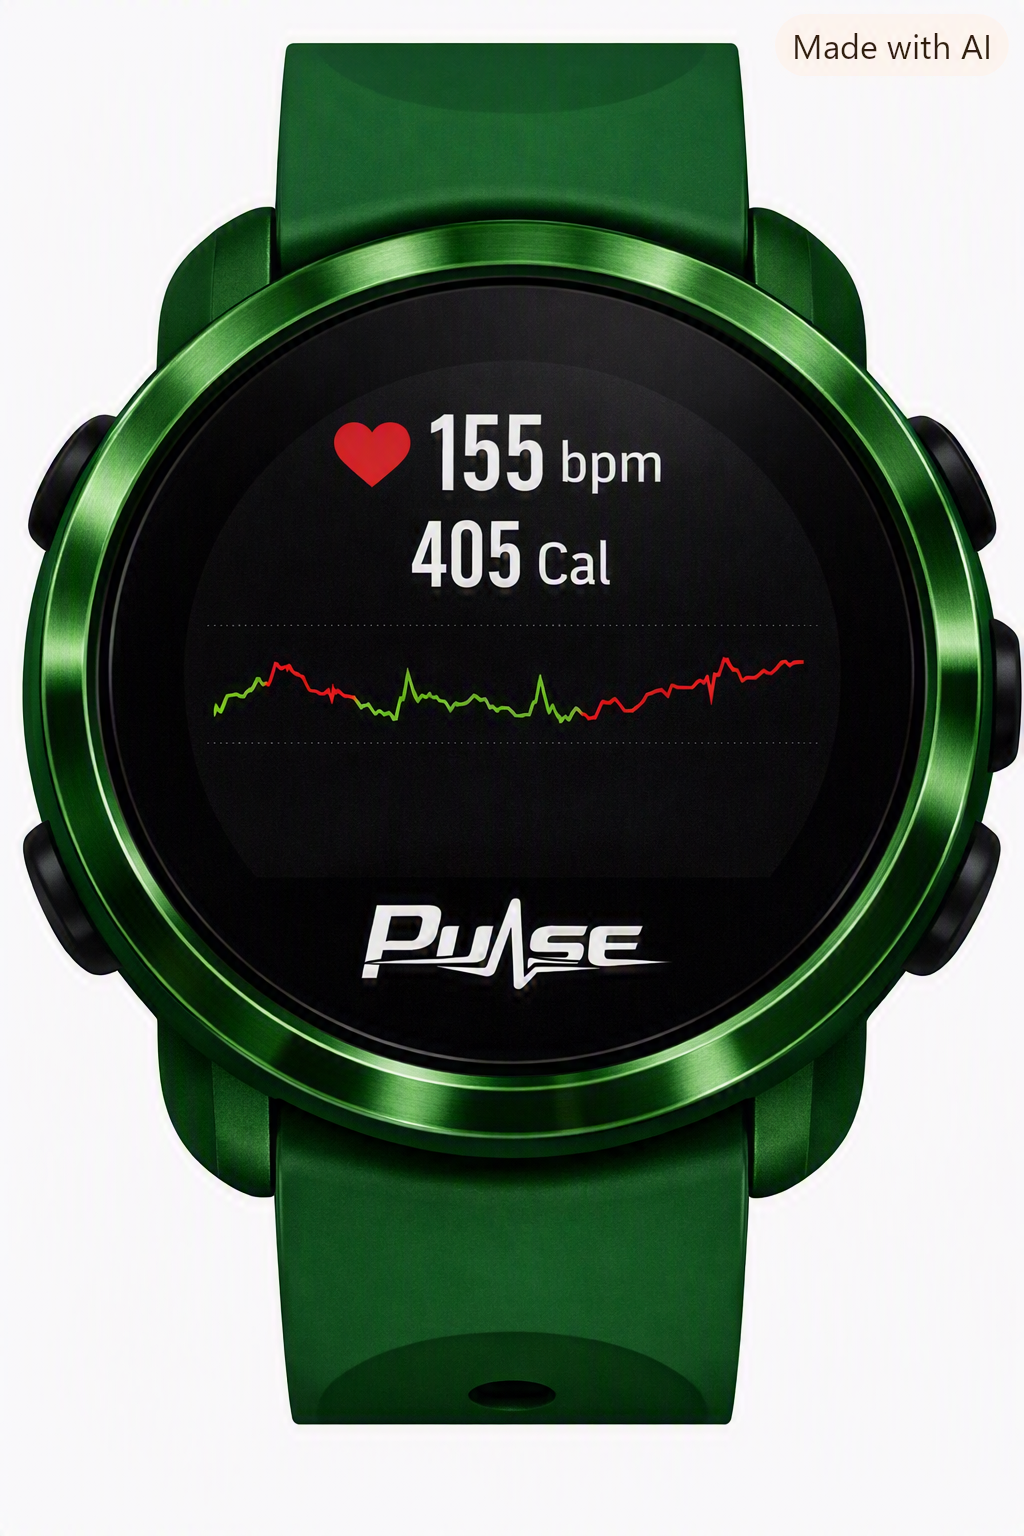
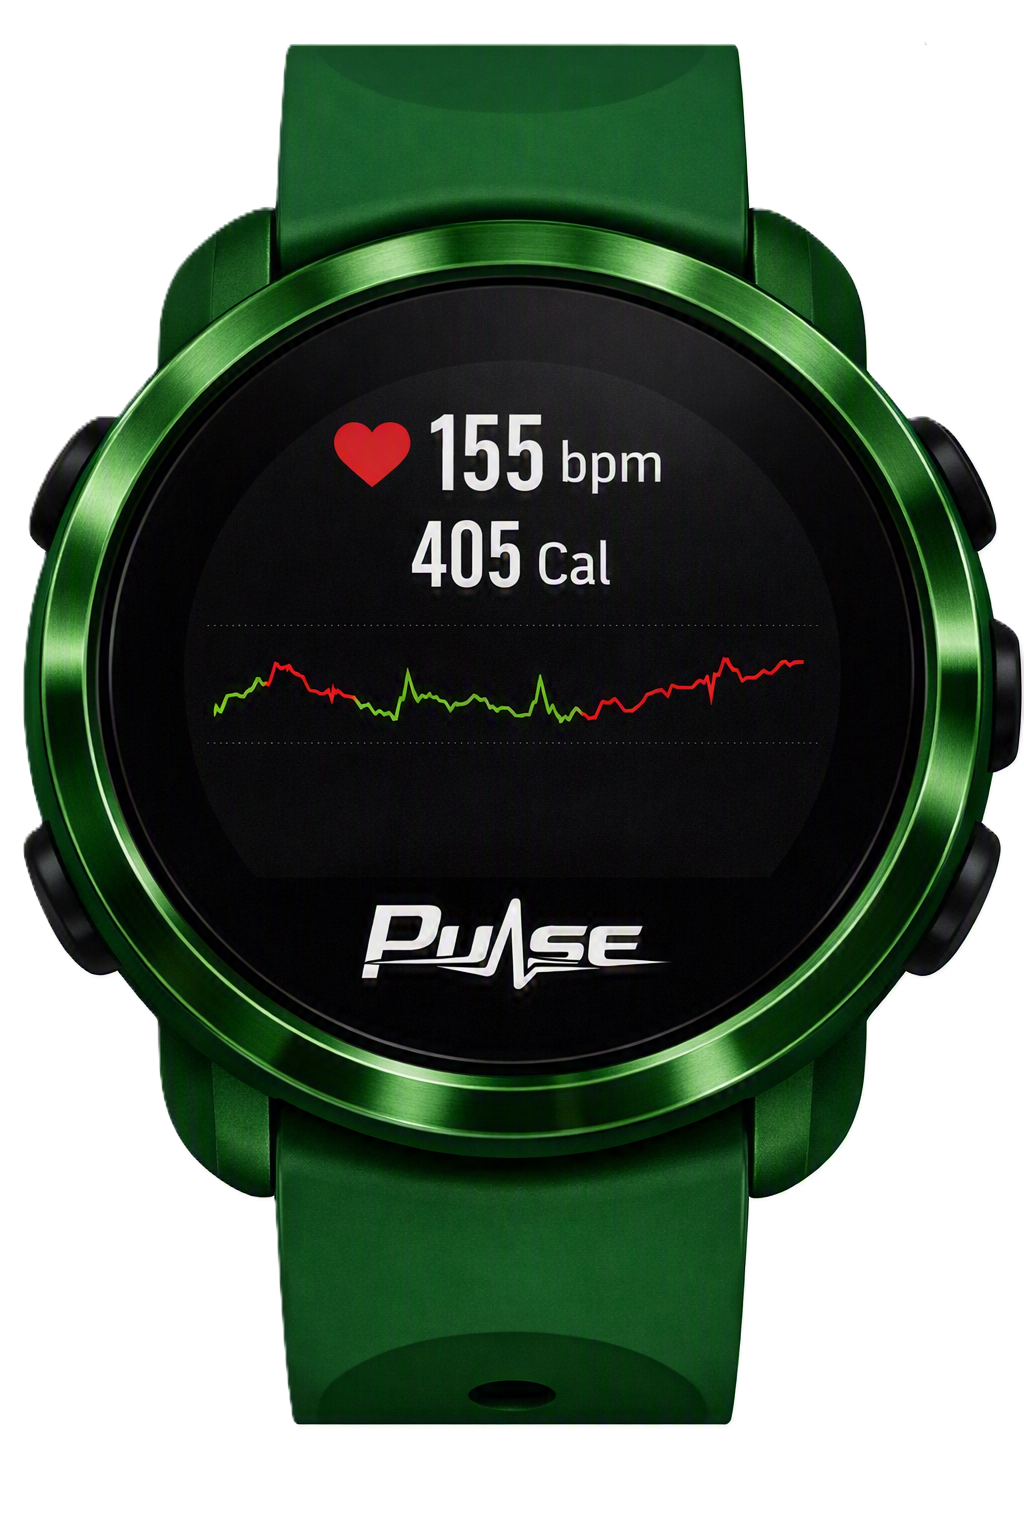
de rigtige ure

diff --git a/index.html b/index.html
@@ -54,7 +54,7 @@
 
 <section class="products">
     <div class="item">
-        <img src="img/Core-grey.png" alt="Pulse Core Green">
+        <img src="img/core-grey-new.png" alt="Pulse Core Green">
         <div class="product-info">
             <h4>Steel Gray</h4>
             <button class="buy-btn">Add to Cart</button>
@@ -68,7 +68,7 @@
         </div>
     </div>
     <div class="item">
-        <img src="img/Core-black.png" alt="Pulse Core Charcoal">
+        <img src="img/core-black-new.png" alt="Pulse Core Charcoal">
         <div class="product-info">
             <h4>Charcoal Black</h4>
             <button class="buy-btn">Add to Cart</button>
